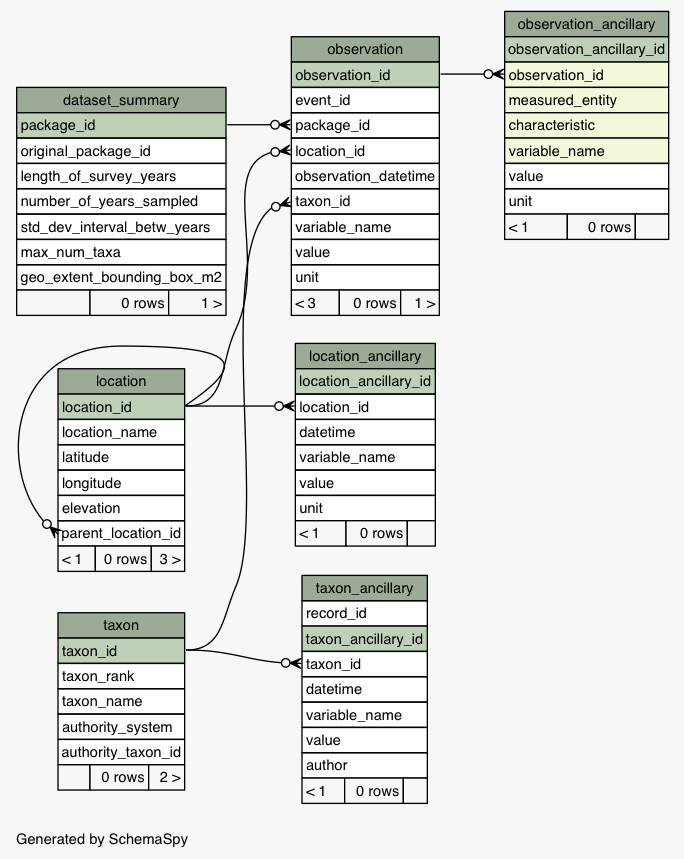
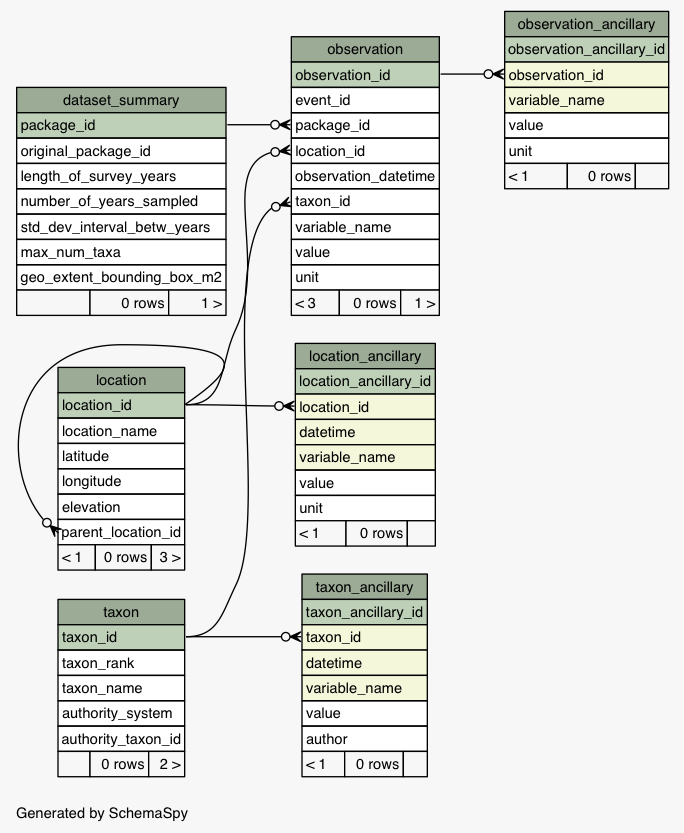
observation_ancillary: removed semantics for now, updated table description and png. taxon_ancillary: removed record_id (redundant).

Changed region(s): [[0.0307, 0.0, 0.9825, 0.9364], [0.0307, 0.9676, 0.2763, 0.9988], [0.0, 0.4994, 0.0307, 0.5618]]

diff --git a/documentation/model/table_description.md b/documentation/model/table_description.md
@@ -116,8 +116,6 @@ Columns
 |---------------|----------|-----------------------|-------------------|--------------|---------| 
 |	observation_ancillary_id | character |yes| NA	| the id of the observation_ancillary, a row or record identifier 	| 	TBE01JUN05  	|
 |	observation_id           | character |yes| NA	| (table = obsewrvation) observation_id                         	| 	  	|
-|	measured_entity          | character |yes| NA	| the thing that was measured, not a taxon or location         	| 	water  	|
-|	characteristic           | character |yes| NA	| the characteristic of that entity          	| 	depth  	|
 |	variable_name            | character |yes| NA | variable measured. in EML metadata, these should be code-def pairs (enumeratedList)  	|  sample_z  	|
 |	value                    | character | no| NA	| value for variable  	|  5  	|
 |	unit                     | character | no| NA	|  unit for variable 	|  m 	|
